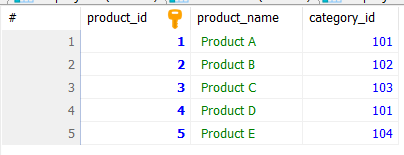
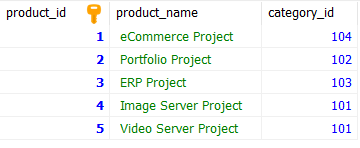
assignment completed

diff --git a/README.md b/README.md
@@ -1,4 +1,4 @@
-# Lab Report 03
+# Lab Report 02
 **Course:** Database Management System Sessional (CSEC-322)<br />
 
 **Prepared By:**<br />
@@ -27,6 +27,12 @@ CREATE TABLE departments (
 	department_name VARCHAR(50)
 );
 
+CREATE TABLE products (
+	product_id INT PRIMARY KEY NOT NULL,
+	product_name VARCHAR(50),
+	category_id INT
+);
+
 CREATE TABLE customers (
 	customer_id INT PRIMARY KEY NOT NULL,
 	name VARCHAR(50)
@@ -38,48 +44,42 @@ CREATE TABLE orders (
 	amount INT,
 	FOREIGN KEY (customer_id) REFERENCES customers(customer_id)
 );
-
-CREATE TABLE products (
-	product_id INT PRIMARY KEY NOT NULL,
-	product_name VARCHAR(50),
-	category_id INT
-);
 ```
 
 ## Insert Sample Data
 ```sql
 INSERT INTO employees (employee_id, name, salary, department_id) VALUES
-(1, 'Alice Johnson', 55000, 1),
-(2, 'Bob Smith', 62000, 2),
-(3, 'Charlie Brown', 47000, 1),
-(4, 'Daisy White', 75000, 3),
-(5, 'Edward Green', 45000, 2);
+(1, 'Ashik Himel', 55000, 1),
+(2, 'Shimul Sheikh', 62000, 2),
+(3, 'Sakib Ahmed', 47000, 1),
+(4, 'Alamin Sheikh', 75000, 3),
+(5, 'Sabbir Ahmed', 45000, 2);
 
 INSERT INTO departments (department_id, department_name) VALUES
-(1, 'Human Resources'),
-(2, 'Engineering'),
-(3, 'Marketing');
-
-INSERT INTO customers (customer_id, name) VALUES
-(1, 'Alice Anderson'),
-(2, 'Bob Black'),
-(3, 'Carol White'),
-(4, 'David Brown'),
-(5, 'Eve Gray');
-
-INSERT INTO orders (order_id, customer_id, amount) VALUES
-(1, 1, 200),
-(2, 2, 150),
-(3, 3, 300),
-(4, 4, 500),
-(5, 5, 120);
+(1, 'Product Manager'),
+(2, 'Designer'),
+(3, 'Developer');
 
 INSERT INTO products (product_id, product_name, category_id) VALUES
-(1, 'Product A', 101),
-(2, 'Product B', 102),
-(3, 'Product C', 103),
-(4, 'Product D', 101),
-(5, 'Product E', 104);
+(1, 'eCommerce Project', 104),
+(2, 'Portfolio Project', 102),
+(3, 'ERP Project', 103),
+(4, 'Image Server Project', 101),
+(5, 'Video Server Project', 101);
+
+INSERT INTO customers (customer_id, name) VALUES
+(1, 'Abrar Shazid'),
+(2, 'Mahmud Rashid'),
+(3, 'Abdul Lotif'),
+(4, 'Nasim Mondol'),
+(5, 'Avijit Tirtho');
+
+INSERT INTO orders (order_id, customer_id, amount) VALUES
+(1, 1, 100000),
+(2, 2, 80000),
+(3, 3, 95000),
+(4, 4, 70000),
+(5, 5, 85000);
 ```
 
 ## Task 1: Using WHERE Clause Retrieve all employees with a salary greater than 50,000.
